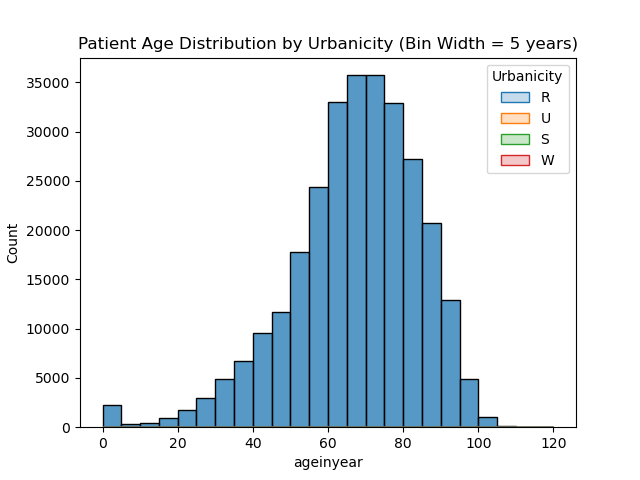
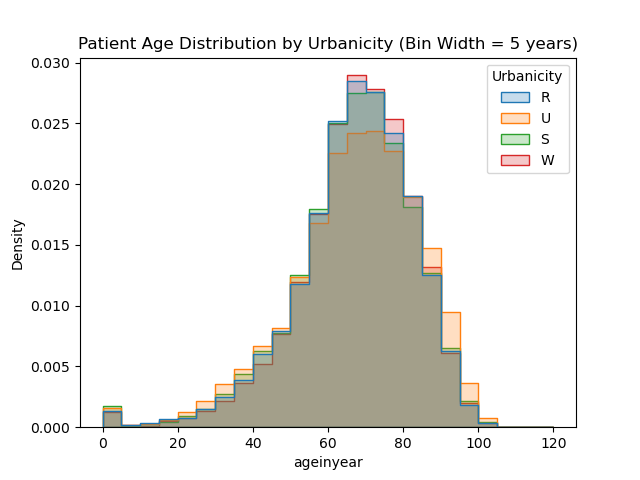
updating EDA.md, figs, etc.

diff --git a/EDA.md b/EDA.md
@@ -1,11 +1,7 @@
 # EDA with Visualizations
 
-## Count of Patients by Urbanicity
-To start investigating some variables in the dataset, we wanted to gain a sense for how many patients in the dataset are from rural vs. urban zones:
-
 ## Distribution by Urbanicity
-
-We can see that the vast majority of the dataset is for patients in urban zones. This should be kept in mind for future analyses. We can also start to get a sense for the ages of patients within a regional type:
+To start investigating some variables in the dataset, we wanted to gain a sense for how many patients in the dataset are from rural vs. urban zones (*note: the scales differ due to less rows being included in the sample data. The left plot was generated from the entire dataset, the right plot is from the sample data*):
 
 <table>
 <tr>
@@ -14,9 +10,19 @@ We can see that the vast majority of the dataset is for patients in urban zones.
 </tr>
 </table>
 
+We can see that the vast majority of the dataset is for patients in urban zones. This should be kept in mind for future analyses. We can also start to get a sense for the ages of patients within a regional type (*note: the scales differ due to less rows being included in the sample data. The left plot was generated from the entire dataset, the right plot is from the sample data*):
+
+<table>
+<tr>
+<td>
+<img src="./figs/patient-counts-by-urbanicity-age.png"/></td>
+<td><img src="./figs/fig_samples/patient-counts-by-urbanicity-age_sample.png" alt="Full Dataset"/></td>
+</tr>
+</table>
+
 ## Distribution of Age
 
-Next, we wanted to get a sense for the age distribution of patients with cardiac events:
+Next, we wanted to get a sense for the age distribution of patients with cardiac events (*note: the scales differ due to less rows being included in the sample data. The left plot was generated from the entire dataset, the right plot is from the sample data*):
 
 <table>
 <tr>
@@ -29,18 +35,12 @@ We can see that the patient age distribution is negatively skewed - which makes 
 
 ## Distribution of Age by Urbanicity
 
-We also plotted a histogram of age using probability density, with shading by urbanicity:
+We also plotted a histogram of age using probability density, with shading by urbanicity (*note: the plots differ due to less rows being included in the sample data. The left plot was generated from the entire dataset, the right plot is from the sample data*):
 
 <table>
 <tr>
 <td><img src="./figs/age-histogram-by-urbanicity.png" alt="Full Dataset"/></td>
 <td><img src="./figs/fig_samples/age-histogram-by-urbanicity_sample.png" alt="Sample Dataset"/></td>
-</tr>
-</table>
-<table>
-<tr>
-<td><img src="./figs/age-histogram-by-urbanicity-age.png" alt="Full Dataset"/></td>
-<td><img src="./figs/fig_samples/age-histogram-by-urbanicity-age_sample.png" alt="Sample Dataset"/></td>
 </tr>
 </table>
 
